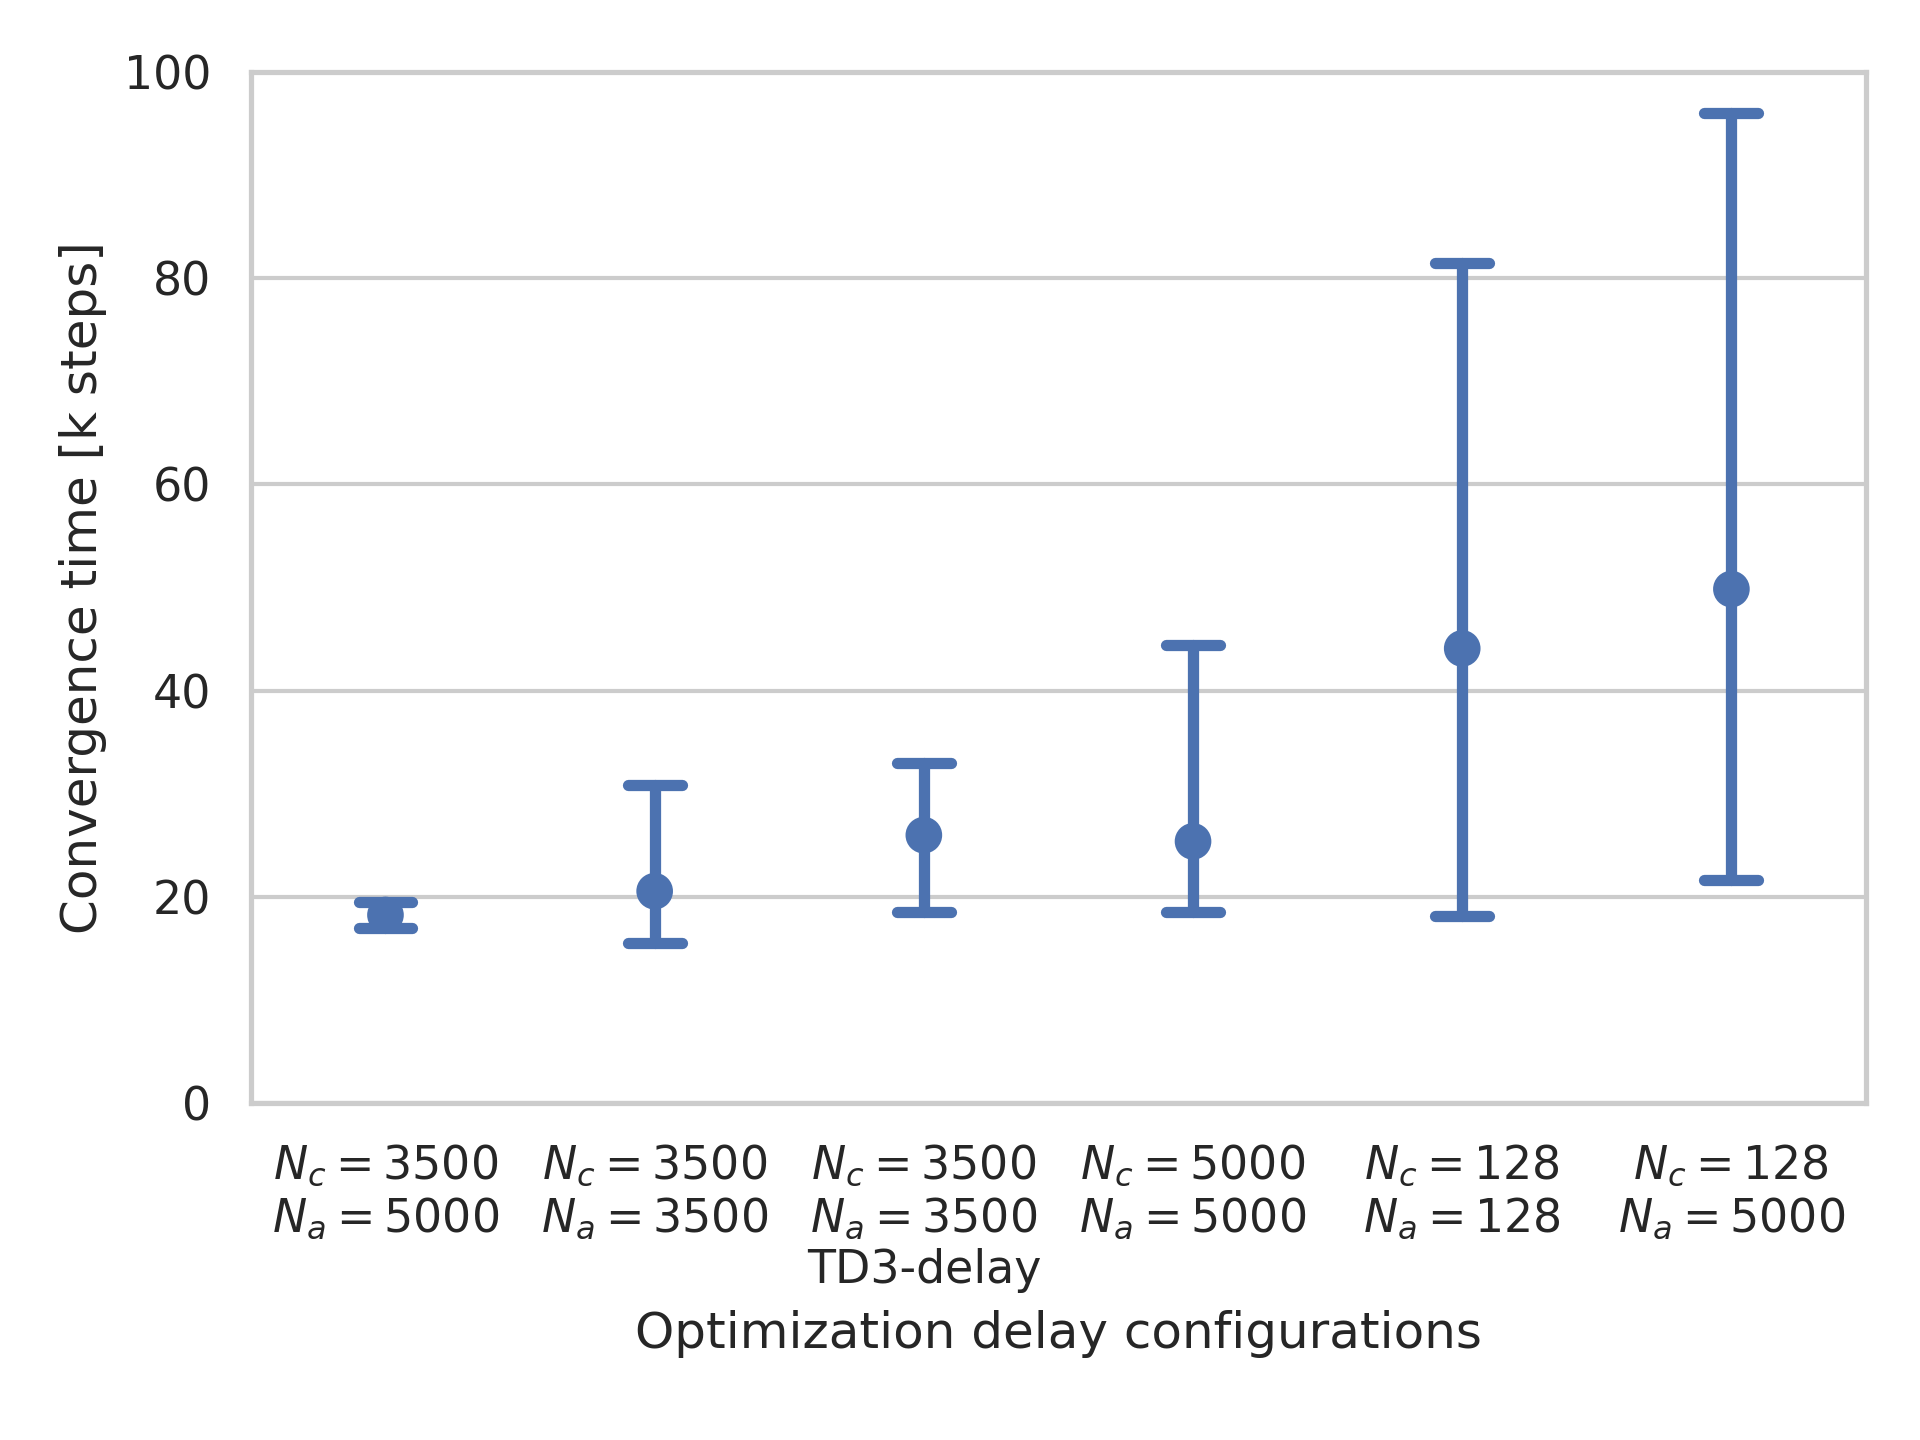
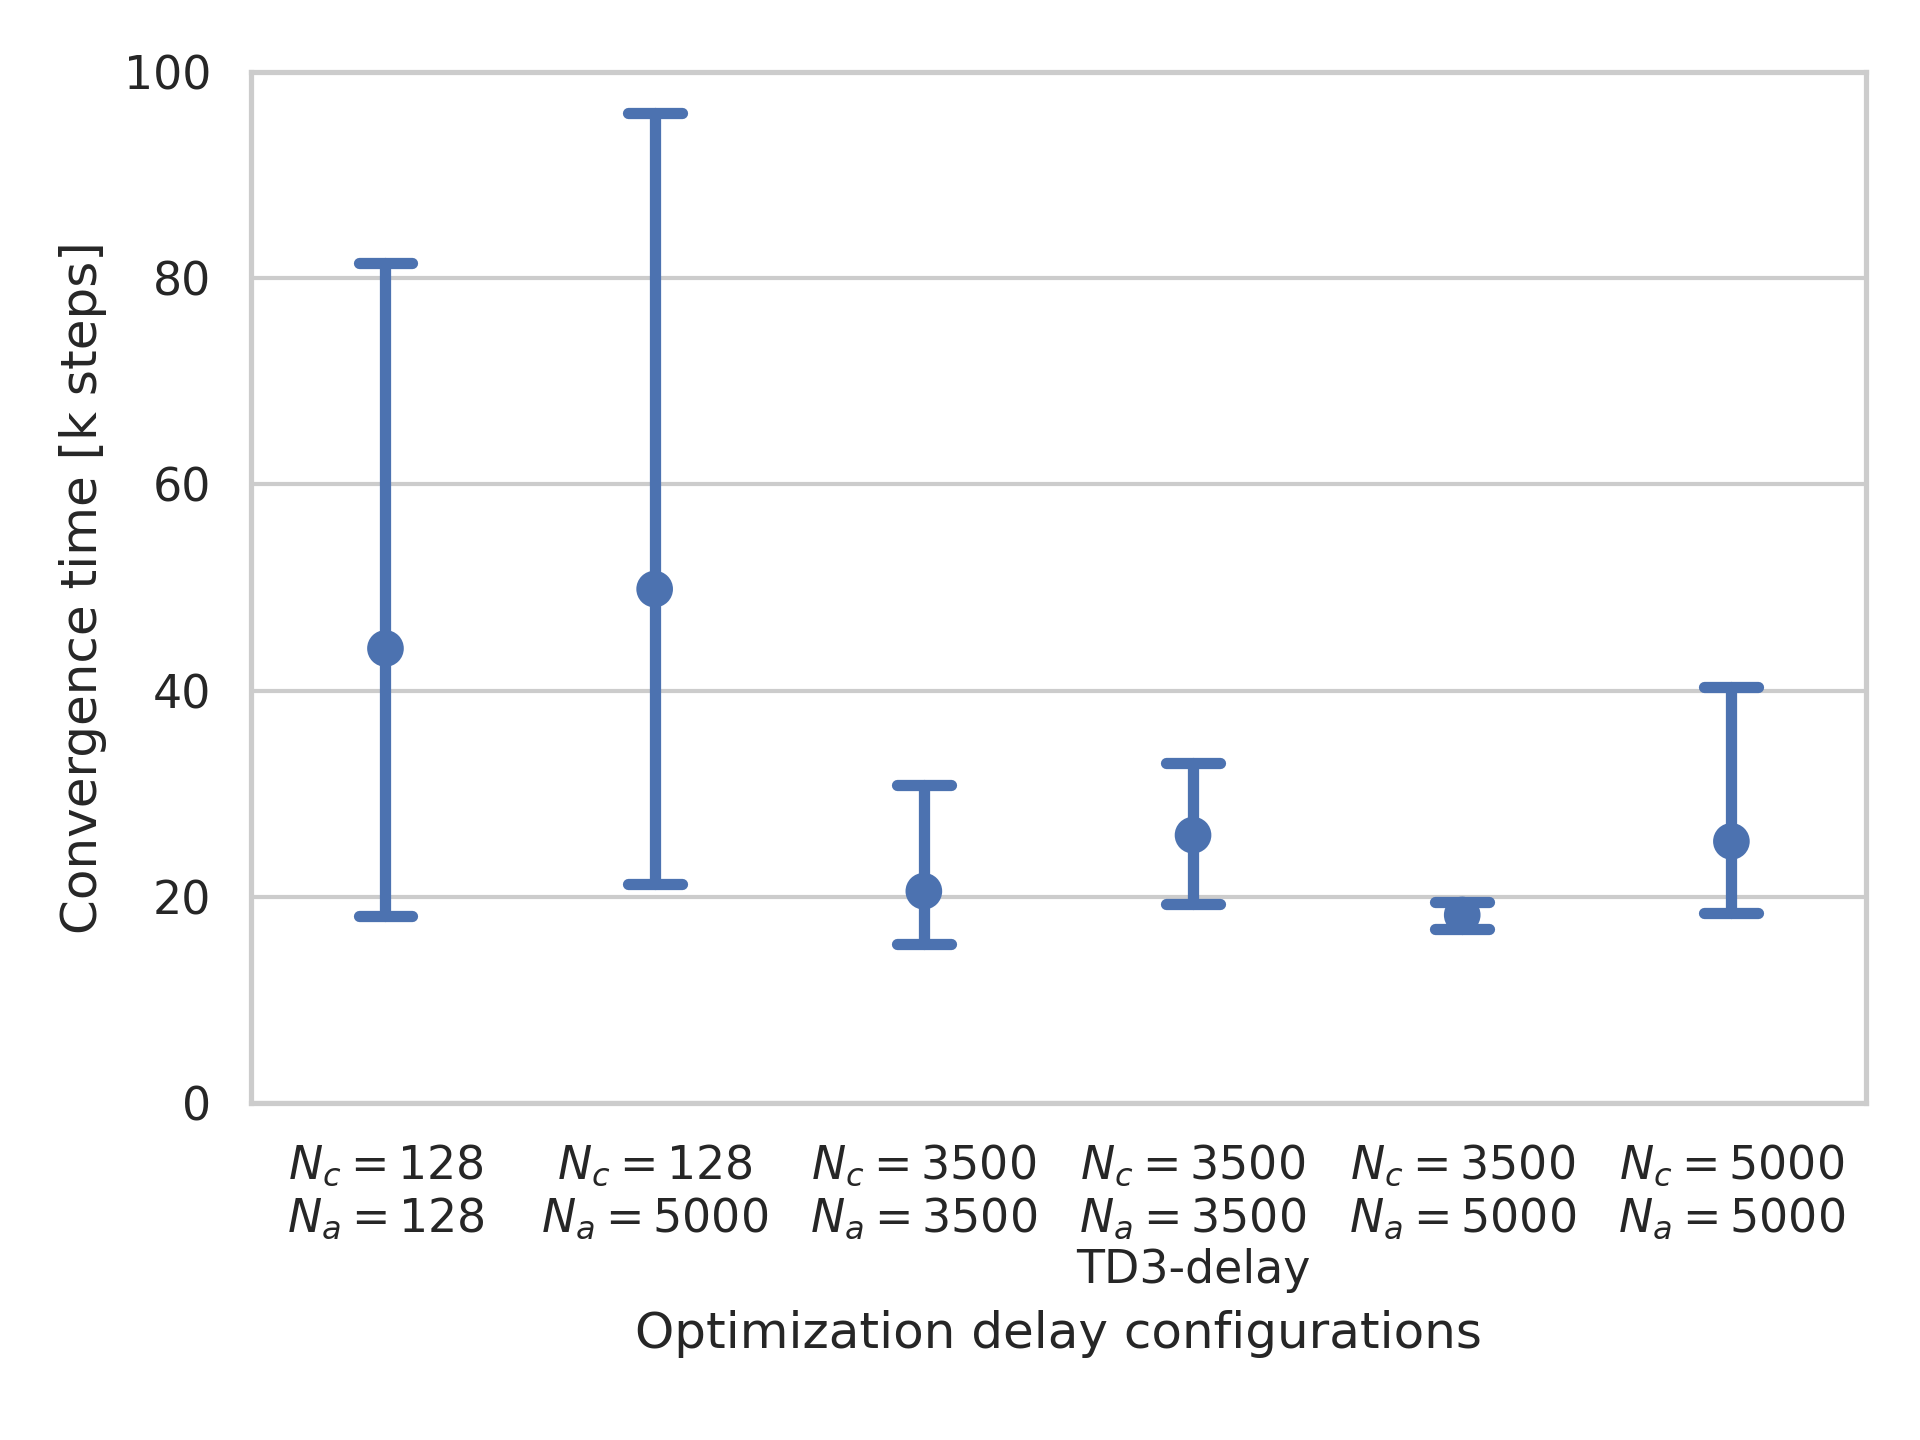
real_dis training

diff --git a/paper_docs/data_tb.py b/paper_docs/data_tb.py
@@ -118,13 +118,14 @@ def plot_timeseries_median(dat, run_ids):
         idx = np.where(conv_times[k] == median)[0][0]
         results = extract_data(dat, runs, "swing_up_time_series")
         result = results[idx]
-        l = list(zip(*[[int(k)/1000, 1000-v] for k, v in result.items() if int(k) > 5000]))
+        l = list(zip(*[[int(k) / 1000, 1000 - v] for k, v in result.items() if int(k) > 5000]))
         a = sns.lineplot(x=l[0], y=l[1], marker='o', zorder=101)
         plt.scatter(x=l[0][-1], y=l[1][-1], s=200, marker='*', color=a.get_lines()[i].get_color(), zorder=100)
         i += 1
 
     plt.xlabel('Training time [k steps]')
-    plt.ylabel('Consecutive on-target steps $n_{T_e}$')
+    # plt.ylabel('Consecutive on-target steps $n_{T_e}$')
+    plt.ylabel('Successful on-target steps ${T_s}$')
     lims = plt.xlim()
     plt.hlines(y=750, xmin=0, xmax=lims[1], colors="green", linestyles='--')
     # plt.hlines(y=1000, xmin=0, xmax=lims[1], colors="red", linestyles='--')
@@ -149,6 +150,7 @@ if __name__ == "__main__":
     runs_bw = runs['data_bandwidth']
     runs_bw_no_combined = runs['data_bandwidth_without_cer']
     runs_eval = runs['data_eval']
+    runs_dis = runs['dis']
 
     plt.figure()
     results = {}
@@ -186,14 +188,24 @@ if __name__ == "__main__":
     plt.savefig("friction_plot.png", dpi=300)
 
     ax_freeze = plot_cat(data, runs_freeze, confidence_score)
+    # plt.xticks(range(6), (
+    #     '$N_c=3500$\n$N_a=5000$',
+    #     '$N_c=3500$\n$N_a=3500$',
+    #     '$N_c=3500$\n$N_a=3500$\nTD3-delay',
+    #     '$N_c=5000$\n$N_a=5000$',
+    #     '$N_c=128$\n$N_a=128$',
+    #     '$N_c=128$\n$N_a=5000$'
+    # ))
+
     plt.xticks(range(6), (
-        '$N_c=3500$\n$N_a=5000$',
+        '$N_c=128$\n$N_a=128$',
+        '$N_c=128$\n$N_a=5000$',
         '$N_c=3500$\n$N_a=3500$',
         '$N_c=3500$\n$N_a=3500$\nTD3-delay',
+        '$N_c=3500$\n$N_a=5000$',
         '$N_c=5000$\n$N_a=5000$',
-        '$N_c=128$\n$N_a=128$',
-        '$N_c=128$\n$N_a=5000$'
     ))
+
     plt.xlabel('Optimization delay configurations')
     plt.ylabel('Convergence time [k steps]')
     plt.ylim([0, plt.ylim()[1]])
@@ -218,7 +230,8 @@ if __name__ == "__main__":
         for c in d:
             df = df.append({"convergence_time": c, "bandwidth": k, "Method": "w/o CER"}, ignore_index=True)
 
-    ax = sns.pointplot(data=df, x="bandwidth", y="convergence_time", hue="Method", capsize=.2, join=False, dodge=0.25, ci=confidence_score)
+    ax = sns.pointplot(data=df, x="bandwidth", y="convergence_time", hue="Method", capsize=.2, join=False, dodge=0.25,
+                       ci=confidence_score)
 
     # ax = sns.scatterplot(data=df, x="bandwidth", y="convergence_time", hue="Method")
     # ax = sns.boxplot(data=df, x="bandwidth", y="convergence_time", hue="Method")
@@ -240,3 +253,14 @@ if __name__ == "__main__":
     plt.tight_layout()
     plt.savefig("real_good.png", dpi=300)
     plt.show()
+
+    ax_dis = plot_cat(data, runs_dis, confidence_score)
+    plt.xticks(range(8), ('0.06', '0.1', '0.5', '5', '10', '15', '>50', '>50 dis'))
+    plt.xlabel('Bandwidth (w/o CER) $k_f$')
+    plt.ylabel('Convergence time [k steps]')
+    plt.vlines(2.5, 0, ylims[1], colors="black", linestyles="--")
+    plt.text(0.5, 3, "Low BW")
+    plt.text(4, 3, "High BW")
+    plt.ylim([0, plt.ylim()[1]])
+    plt.tight_layout()
+    plt.savefig("bandwidth_dis.png", dpi=300)
